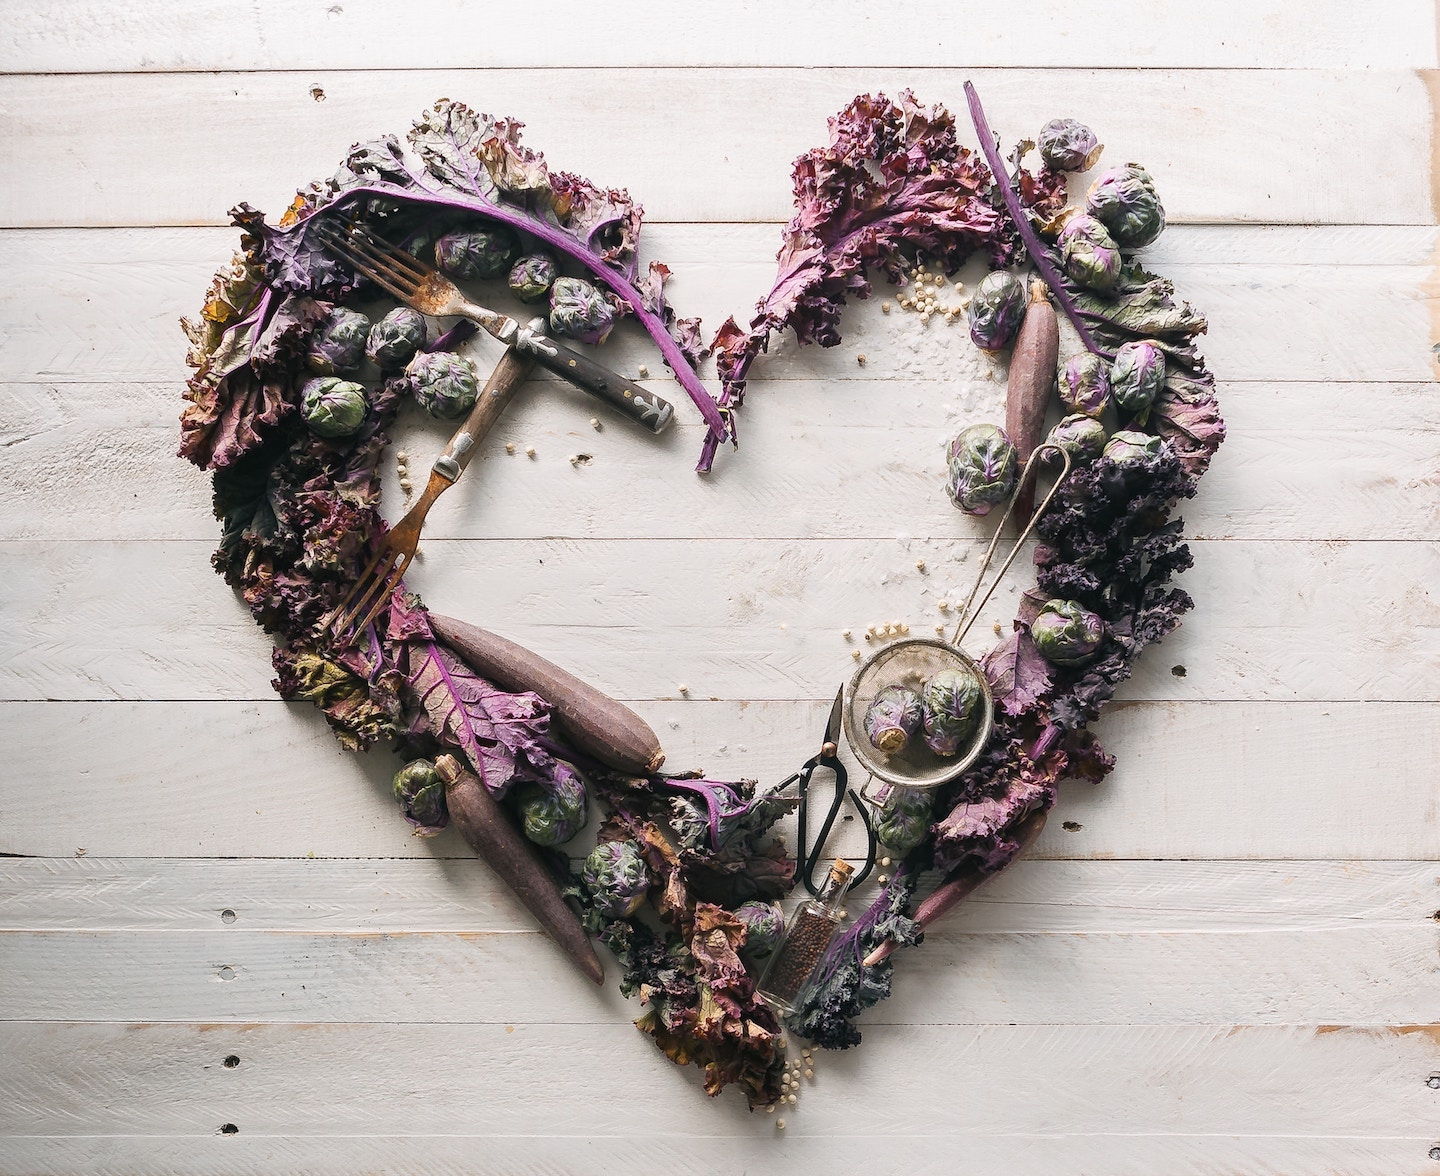
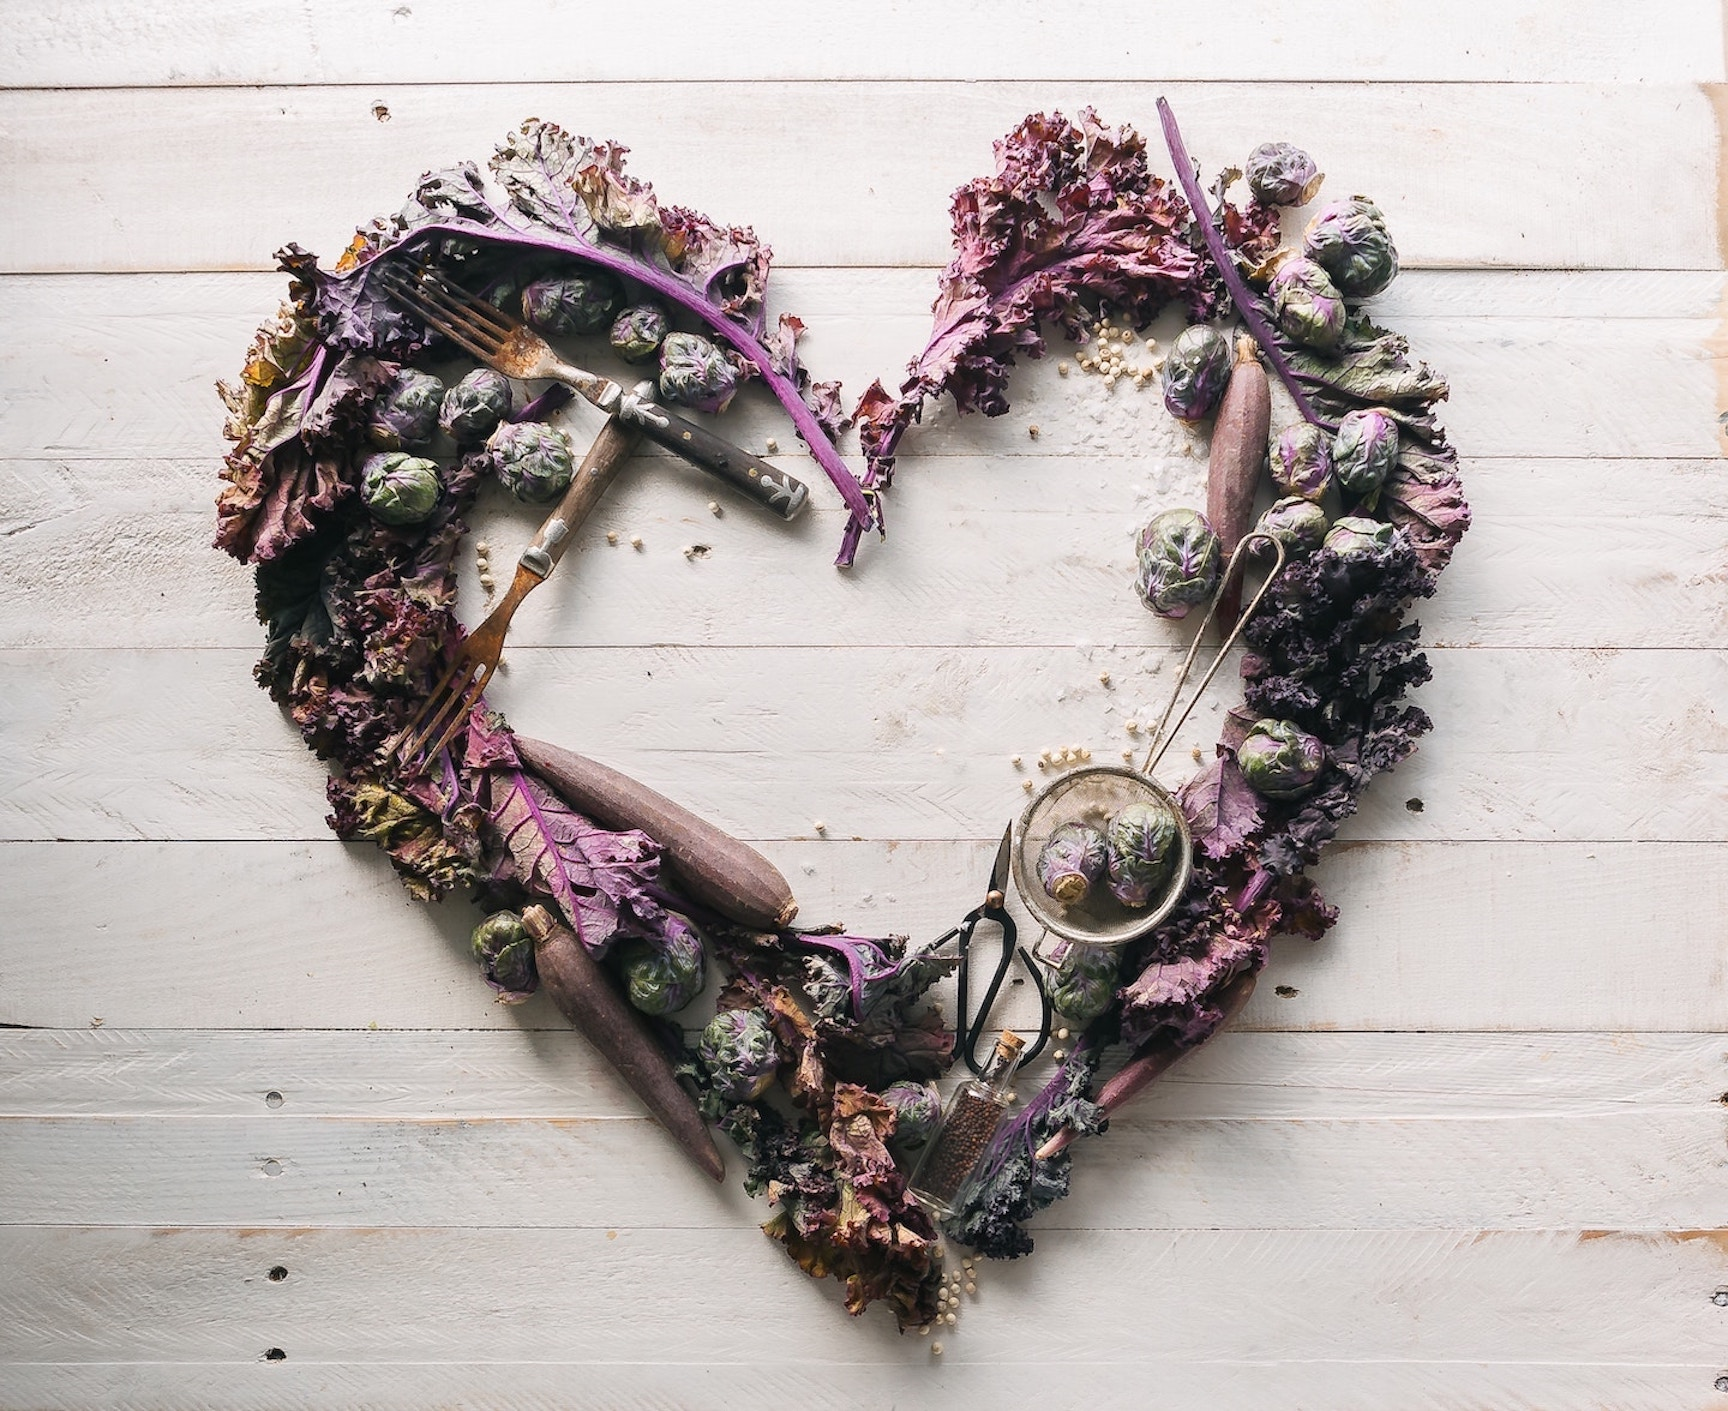
updated styles

diff --git a/src/Components/Home/Home.css b/src/Components/Home/Home.css
@@ -1,7 +1,7 @@
 .home_background{
 width:100%;
-height:100vh;
-background:url('./../../assets/brooke-lark-230140.jpg');
+height:110vh;
+background:url('./../../assets/kitchen.jpg');
 background-repeat: no-repeat;
 display: flex;
 flex-direction: column;
@@ -10,28 +10,30 @@ justify-content: space-around;
 }
 
 .home_header{
-    font-size:80px;
+    font-size:95px;
     width:60%;
     font-family:'Kaushan script';
-    padding:50px;
-    line-height:100px;
+    padding:30px;
+    margin-left:350px;
+    line-height:120px;
     color:rgb(0, 0, 0);
     text-shadow: 3px 3px rgba(255, 255, 255, 0.888);
 }
 
 .home_button{
-    width:30vh;
-    height:30vh;
+    width:35vh;
+    height:35vh;
     color:black;
-    background: radial-gradient(rgba(239, 35, 62, 0.222),rgba(239, 35, 62, 0.333),rgba(239,35,62,0.444),rgba(239,35,62,0.555),rgba(239, 35, 62, 0.666),rgba(239, 35, 62, 0.777),rgba(239, 35, 62, 0.888),rgba(239, 35, 62, 0.999),rgb(239, 35, 62));
+    /* background: radial-gradient(rgba(239, 35, 62, 0.222),rgba(239, 35, 62, 0.333),rgba(239,35,62,0.444),rgba(239,35,62,0.555),rgba(239, 35, 62, 0.666),rgba(239, 35, 62, 0.777),rgba(239, 35, 62, 0.888),rgba(239, 35, 62, 0.999),rgb(239, 35, 62)); */
+    background:rgba(233, 233, 210, 0.888);
     border-radius:50%;
     font-size:50px;
     font-weight: 900;
     outline: none;
-    box-shadow:  10px 8px 5px 5px rgba(136, 73, 73, 0.774);
+    box-shadow:  10px 8px 5px 5px rgba(65, 64, 61, 0.774);
 }
 
-@media (min-width:800px){
+/* @media (min-width:800px){
     .home_button{
    width:400px;
    height:400px;
@@ -55,4 +57,4 @@ justify-content: space-around;
         width:100%;
         height:160vh;
     }
-}
+} */

diff --git a/src/Components/RecipeDetail/RecipeDetail.css b/src/Components/RecipeDetail/RecipeDetail.css
@@ -3,6 +3,10 @@
     height: 100vh;
     background-repeat: no-repeat;
     overflow: scroll;
+    display: flex;
+    justify-content: center;
+    align-items: center;    
+    flex-flow:column;
 }
 .recipeDetail_background::after{
     content:'';
@@ -20,11 +24,12 @@
 
 .recipeDetail_nav{
     width:100%;
-    height:10vh;
+    height:6vh;
     padding:5px;
     display: flex;
     align-items: center;
-    background:rgba(239, 35, 62, 0.931);
+    justify-content: center;
+    background:rgb(184,115,51);
 }
 .recipeDetail_logo{
     width:35%;
@@ -47,9 +52,8 @@
 }
 .recipe_info{
     width:40%;
-    margin-left:400px;
-    margin-top:20px;
-    padding:50px;
+    margin-top:50px;
+    padding:30px;
     display: flex;
     flex-direction: column;
     justify-content: space-around;
@@ -58,14 +62,11 @@
 }
 
 .recipeDetail_img{
-    width:100%;
-    height:400px;
+    width:90%;
+    height:450px;
     margin:5px;
+}
 
-}
-.recipeDetail_title{
-    font-size:22px;
-}
 .back_button{
     width:32px;
     height:32px;

diff --git a/src/Components/MainPage/MainPage.css b/src/Components/MainPage/MainPage.css
@@ -19,11 +19,12 @@
 
 .mainPage_navBackground{
  width:100%; 
- height:10vh;
+ height:6vh;
  padding:5px;
- background: rgba(239, 35, 62, 0.931);
+ background:rgb(184,115,51);
  display: flex;
  align-items: center;
+ justify-content: center;
 }
 
 .fork_and_spoon_logo{
@@ -34,22 +35,23 @@
 
 .mainPage_title{
     font-family: 'kaushan script';
-    font-size:44px;
+    font-size:40px;
     font-weight: 900;
 }
 
 .input_box{
- width:30vw;
- height: 5.2vh;
+ width:20vw;
+ height: 4vh;
  border-radius: 5px;
  margin-left:200px;
 }
 
 .search_button{
- width:10vw;
- height:5.7vh;
+ width:5vw;
+ height:4.4vh;
  margin:1px;
  border-radius: 5px;
+
 }
 
 .mainPage_menu{
@@ -81,7 +83,7 @@
     justify-content: space-around;
 }
 .mainPage_recipe_info{
-    width:25%;
+    width:20%;
     margin:10px;
     padding:5px;
     text-align: center;
@@ -94,7 +96,7 @@
     text-align: center;
 }
 .mainPage_recipe_img{
-    width:90%;
+    width:80%;
     height:250px;
     margin:10px;
 }

diff --git a/src/Components/Profile/Profile.css b/src/Components/Profile/Profile.css
@@ -19,15 +19,16 @@
 }
 .profileNav{
     width:100%;
-    height:10vh;
+    height:6vh;
     padding:5px;
     display: flex;
     align-items: center;
-    background: rgba(239, 35, 62, 0.931);
+    justify-content: center;
+    background:rgb(184,115,51);
 }
 
 .profile_title{
-    width:80%;
+    width:70%;
     font-size:60px;
     text-align: center;
 }
@@ -45,9 +46,9 @@
     background-image: url('./../../assets/home-48.png')
 }
 .profile_img{
-    width:65px;
-    height:65px;
-    border-radius: 50%;
+    width:50px;
+    height:50px;
+    border-radius: 10%;
     margin-left:10px;
     border:2px solid black;
 }
@@ -60,7 +61,7 @@
     justify-content: space-around;
 }
 .profile_recipe_card{
-    width:25%;
+    width:20%;
     margin:10px;
     padding:5px;
     display: flex;

diff --git a/src/App.css b/src/App.css
@@ -1,6 +1,6 @@
-body{
+/* body{
     font-family: 'fredericka the great';
-}
+} */
 
 button{
     font-family: 'Kaushan Script';
@@ -13,11 +13,6 @@ button{
 input{
     font-family: 'fredericka the great';
     font-size:16px;
-}
-
-li{
-list-style: none;
-font-size: 20px;
 }
 
 h2{
